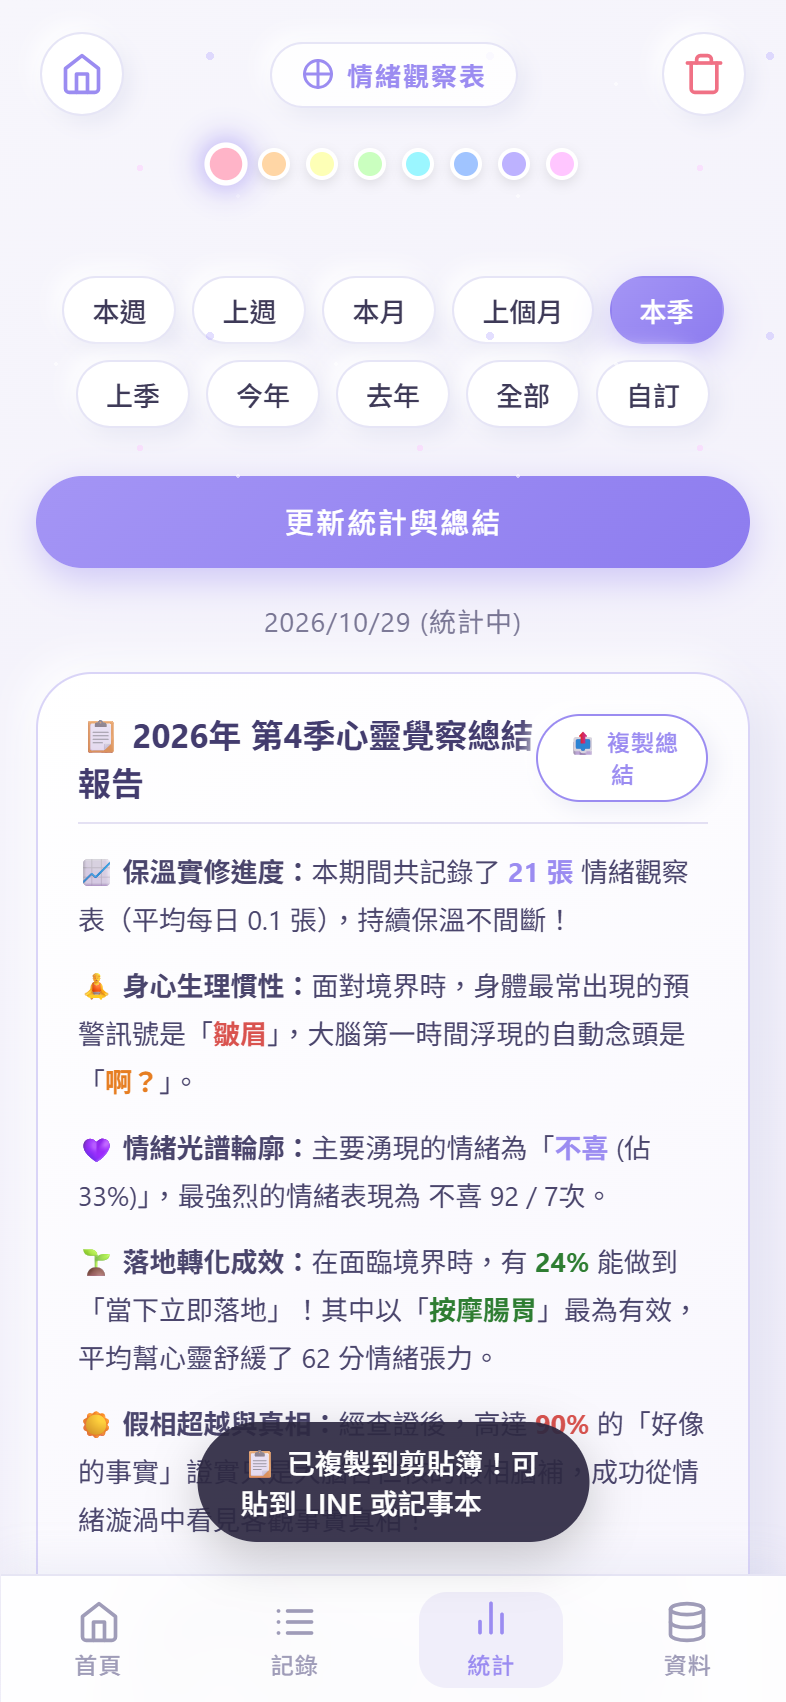
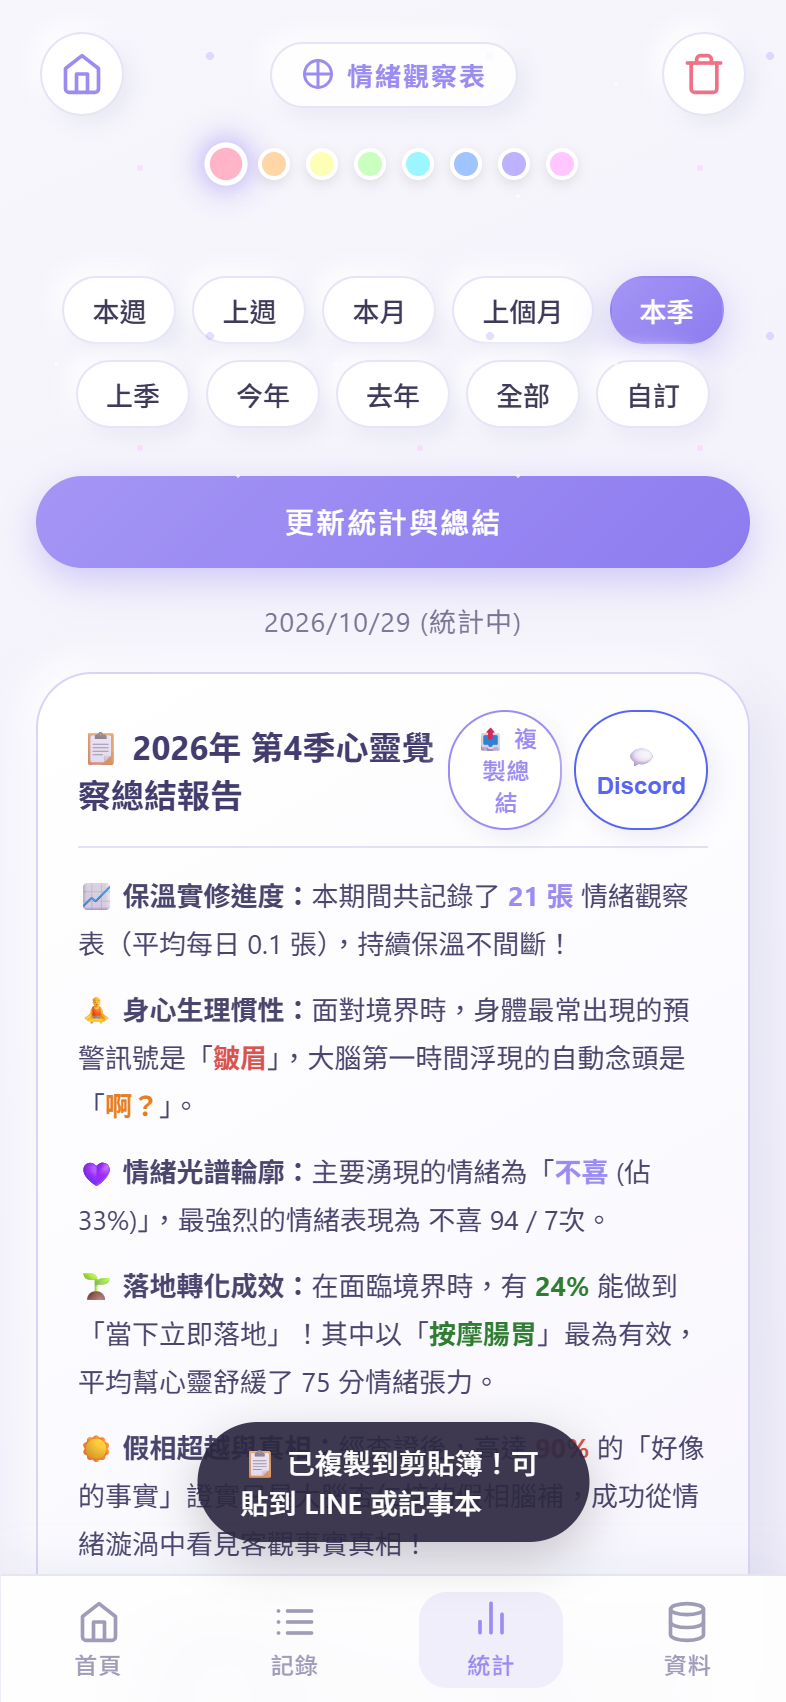
feat: 支援 Discord 整合 (OpenGraph 預覽卡片、Discord Webhook 一鍵推播觀察表與總結報告)

Changed region(s): [[0.0916, 0.4048, 0.916, 0.9342]]

diff --git a/app.js b/app.js
@@ -38,6 +38,7 @@
     startDate: '2025-12-15', // Default from Page 17 (上課日期: 2025-12-15)
     tags: JSON.parse(localStorage.getItem('ea_tags')) || JSON.parse(JSON.stringify(DEFAULT_TAGS)),
     records: JSON.parse(localStorage.getItem('ea_records')) || [],
+    discordWebhook: localStorage.getItem('ea_discordWebhook') || '',
     statsPeriod: 'all',
     
     // Draft for current entry
@@ -71,6 +72,7 @@
     localStorage.setItem('ea_records', JSON.stringify(state.records));
     localStorage.setItem('ea_tags', JSON.stringify(state.tags));
     localStorage.setItem('ea_startDate', state.startDate);
+    localStorage.setItem('ea_discordWebhook', state.discordWebhook || '');
   }
 
   // Load custom start date if saved
@@ -778,7 +780,8 @@
       </div>
 
       <div style="display:flex; gap:10px; margin-top:16px;">
-        <button id="modal-share-btn" class="btn-primary" style="flex:1;">📤 分享此卡片</button>
+        <button id="modal-share-btn" class="btn-primary" style="flex:1;">📤 複製/分享卡片</button>
+        <button id="modal-discord-btn" class="record-action-btn" style="flex:1; color:#5865f2; border-color:#5865f2;">💬 Discord 推播</button>
       </div>
     `;
 
@@ -786,6 +789,10 @@
     document.getElementById('modal-share-btn').addEventListener('click', () => {
       shareRecord(r.id);
     });
+    const discordBtn = document.getElementById('modal-discord-btn');
+    if (discordBtn) {
+      discordBtn.addEventListener('click', () => pushRecordToDiscord(r));
+    }
   }
 
   function shareRecord(id) {
@@ -1305,6 +1312,82 @@
     });
   }
 
+
+  // 10.1 Discord Webhook Integration
+  function sendDiscordWebhook(payload) {
+    if (!state.discordWebhook) {
+      if (confirm('尚未設定 Discord Webhook 網址！\n\n是否前往「資料」頁籤設定？（設定後即可一鍵自動推播至您的 Discord 頻道）')) {
+        switchTab('data');
+        const input = document.getElementById('input-discord-webhook');
+        if (input) input.focus();
+      }
+      return Promise.reject('No webhook');
+    }
+
+    showToast('🚀 正在傳送至 Discord 頻道...');
+    return fetch(state.discordWebhook, {
+      method: 'POST',
+      headers: { 'Content-Type': 'application/json' },
+      body: JSON.stringify(payload)
+    }).then(res => {
+      if (res.ok || res.status === 204) {
+        showToast('🎉 已成功發送至 Discord 頻道！');
+        return true;
+      } else {
+        throw new Error('HTTP ' + res.status);
+      }
+    }).catch(err => {
+      alert('發送至 Discord 失敗，請檢查 Webhook 網址是否正確。錯誤訊息：' + err.message);
+    });
+  }
+
+  function pushRecordToDiscord(record) {
+    const emoList = (record.emotions || []).map(e => `${e.name} ${e.score}分`).join('、 ') || '無';
+    const bodyList = (record.bodyReactions || []).join('、 ') || '無';
+    const thoughtsList = (record.thoughts || []).join('、 ') || '無';
+    const groundList = (record.grounding || []).join('、 ') || '無';
+
+    const embed = {
+      title: '🌸 2026 PEI 第三屆情緒觀察表記錄',
+      color: 0x9b8cf1,
+      description: `📅 **記錄時間**：${(record.createdAt || '').replace('T', ' ')}`,
+      fields: [
+        { name: '⚡ 觸發點', value: record.trigger || '無 (略過未填)', inline: false },
+        { name: '🩺 身體反應', value: bodyList, inline: true },
+        { name: '💭 心裡流露的話', value: thoughtsList, inline: true },
+        { name: '💜 情緒類別與指數', value: emoList, inline: false },
+        { name: '🌱 情緒落地', value: `${groundList} (${record.timing || '當下'}落地，後降為 ${record.postScore || 30}分)`, inline: false },
+        { name: '🌫 好像的事實 (假相)', value: record.seemedFact || '無', inline: true },
+        { name: '☀ 確立的事實 (真相)', value: `${record.realFact || '無'}\n*[核對: ${record.factEvaluation || '完全錯誤'}]*`, inline: true },
+        { name: '📝 事件經過', value: record.event || '無 (略過未填)', inline: false },
+        { name: '🌟 今日評價', value: record.reflection || '無', inline: false }
+      ],
+      footer: { text: '情緒觀察表 App · 辨認 ➔ 落地 ➔ 再看真相 · 本機硬碟自主備份' },
+      timestamp: new Date().toISOString()
+    };
+
+    return sendDiscordWebhook({
+      content: '📌 **來自情緒觀察表的日常實修覺察分享**：',
+      embeds: [embed]
+    });
+  }
+
+  function pushSummaryToDiscord() {
+    const title = document.getElementById('summary-report-title').innerText || '心靈覺察總結報告';
+    const embed = {
+      title: title,
+      color: 0x9b8cf1,
+      description: currentSummaryTextToCopy,
+      footer: { text: '2026 PEI 第三屆情緒觀察營 · 覺察保溫計畫' },
+      timestamp: new Date().toISOString()
+    };
+
+    return sendDiscordWebhook({
+      content: `📢 **${title} 摘要出爐**：`,
+      embeds: [embed]
+    });
+  }
+
   // 11. Sample Data Loader (Matching Page 17 exact statistics: 21 sheets, 皺眉 15次, 抿嘴 10次, 倒吸一口氣 8次, 傻眼 43%, 疲累 50/2次, 落地比例 25%/50%, 錯誤率 90%)
   function loadSampleData() {
     if (state.records.length > 0 && !confirm('載入範例資料將新增 21 張營隊示範記錄，確定載入嗎？')) {
@@ -1455,6 +1538,8 @@
       calculateStatistics();
     } else if (tabId === 'data') {
       document.getElementById('input-start-date').value = state.startDate;
+      const whInput = document.getElementById('input-discord-webhook');
+      if (whInput) whInput.value = state.discordWebhook || '';
     }
 
     window.scrollTo({ top: 0, behavior: 'smooth' });
@@ -1511,6 +1596,44 @@
     const skipBtn = document.getElementById('btn-wizard-skip');
     if (skipBtn) {
       skipBtn.addEventListener('click', wizardNext);
+    }
+
+
+    // Discord Integration Listeners
+    const discordSummaryBtn = document.getElementById('btn-discord-push-summary');
+    if (discordSummaryBtn) {
+      discordSummaryBtn.addEventListener('click', pushSummaryToDiscord);
+    }
+
+    const saveWebhookBtn = document.getElementById('btn-save-discord-webhook');
+    if (saveWebhookBtn) {
+      saveWebhookBtn.addEventListener('click', () => {
+        const val = (document.getElementById('input-discord-webhook').value || '').trim();
+        state.discordWebhook = val;
+        persistData();
+        showToast('💾 Discord Webhook 網址已儲存！');
+      });
+    }
+
+    const testWebhookBtn = document.getElementById('btn-test-discord-webhook');
+    if (testWebhookBtn) {
+      testWebhookBtn.addEventListener('click', () => {
+        const val = (document.getElementById('input-discord-webhook').value || '').trim();
+        if (!val) {
+          alert('請先在上方輸入 Discord Webhook 網址！');
+          return;
+        }
+        state.discordWebhook = val;
+        persistData();
+        sendDiscordWebhook({
+          content: '🎉 **「情緒觀察表 App」連線測試成功！**\n恭喜您已成功串接 Discord 頻道，今後完成觀察表或總結報告時，皆可一鍵推播分享至此！',
+          embeds: [{
+            title: '🌸 2026 PEI 情緒觀察營 · 覺察保溫計畫',
+            color: 0x9b8cf1,
+            description: '流水線迅速走完：**辨認 ➔ 落地 ➔ 再看真相**。祝身心安康，覺察不斷線！'
+          }]
+        });
+      });
     }
 
     // Copy Summary Report

diff --git a/index.html b/index.html
@@ -7,6 +7,13 @@
   <meta name="apple-mobile-web-app-capable" content="yes">
   <meta name="apple-mobile-web-app-status-bar-style" content="default">
   <meta name="apple-mobile-web-app-title" content="情緒觀察表">
+  <!-- OpenGraph Metadata for Discord, LINE, Facebook Sharing -->
+  <meta property="og:title" content="🌸 情緒觀察表 - 無憂覺察日記">
+  <meta property="og:description" content="2026 PEI 第三屆情緒觀察營 覺察實修工具。辨認 ➔ 落地 ➔ 再看真相，支援手機全螢幕運行、本機硬碟自主備份與週季月年總結。">
+  <meta property="og:image" content="https://oscarmark2007-bot.github.io/emotion-awareness-app/icons/icon-512.png">
+  <meta property="og:url" content="https://oscarmark2007-bot.github.io/emotion-awareness-app/">
+  <meta property="og:type" content="website">
+  <meta name="twitter:card" content="summary">
   <link rel="manifest" href="manifest.json">
   <link rel="icon" type="image/png" href="icons/favicon.png">
   <link rel="apple-touch-icon" href="icons/apple-touch-icon.png">
@@ -256,9 +263,14 @@
               <h3 style="font-size: 16.5px; font-weight: 700; color: #433c6e;" id="summary-report-title">
                 📋 本週心靈覺察總結
               </h3>
-              <button id="btn-copy-summary" class="record-action-btn" style="padding: 5px 12px; font-size: 12px; flex: initial;">
-                📤 複製總結
-              </button>
+              <div style="display:flex; gap:6px;">
+                <button id="btn-copy-summary" class="record-action-btn" style="padding: 5px 10px; font-size: 12px; flex: initial;">
+                  📤 複製總結
+                </button>
+                <button id="btn-discord-push-summary" class="record-action-btn" style="padding: 5px 10px; font-size: 12px; flex: initial; color: #5865f2; border-color: #5865f2;" title="直接推播至 Discord 頻道">
+                  💬 Discord
+                </button>
+              </div>
             </div>
             <div id="summary-report-body" style="font-size: 13.5px; line-height: 1.75; color: #4a456c;">
               <!-- Dynamically generated weekly/monthly/quarterly/annual insight text -->
@@ -398,6 +410,28 @@
             </button>
             <button id="btn-show-pwa-guide" class="record-action-btn" style="height:46px;">
               📲 如何加入 iPhone / Android 手機主畫面？
+            </button>
+          </div>
+        </div>
+
+        <!-- Discord Webhook Integration Section -->
+        <div class="settings-section-card">
+          <div class="settings-card-title">
+            <svg viewBox="0 0 24 24" width="20" height="20" fill="none" stroke="currentColor" stroke-width="2"><circle cx="12" cy="12" r="10"></circle><path d="M8 12h8"></path><path d="M12 8v8"></path></svg>
+            💬 Discord 頻道推播整合 (選填)
+          </div>
+          <p style="font-size:13px; color:var(--text-sub); line-height:1.5; margin-bottom:12px;">
+            可在您的 Discord 伺服器頻道中建立 Webhook，將此處的網址填入，即可一鍵將「觀察表記錄」或「週季月年總結報告」推播到 Discord！
+          </p>
+          <div style="margin-bottom:12px;">
+            <input type="url" id="input-discord-webhook" class="neumo-input" placeholder="貼上 Discord Webhook 網址 (https://discord.com/api/webhooks/...)" style="width:100%; font-size:13px;">
+          </div>
+          <div class="settings-btn-grid">
+            <button id="btn-save-discord-webhook" class="btn-primary settings-full-btn" style="height:44px; font-size:14px;">
+              💾 儲存 Webhook 網址
+            </button>
+            <button id="btn-test-discord-webhook" class="record-action-btn settings-full-btn" style="height:44px; font-size:13.5px; color:#5865f2; border-color:#5865f2;">
+              🧪 發送測試推播到 Discord
             </button>
           </div>
         </div>
